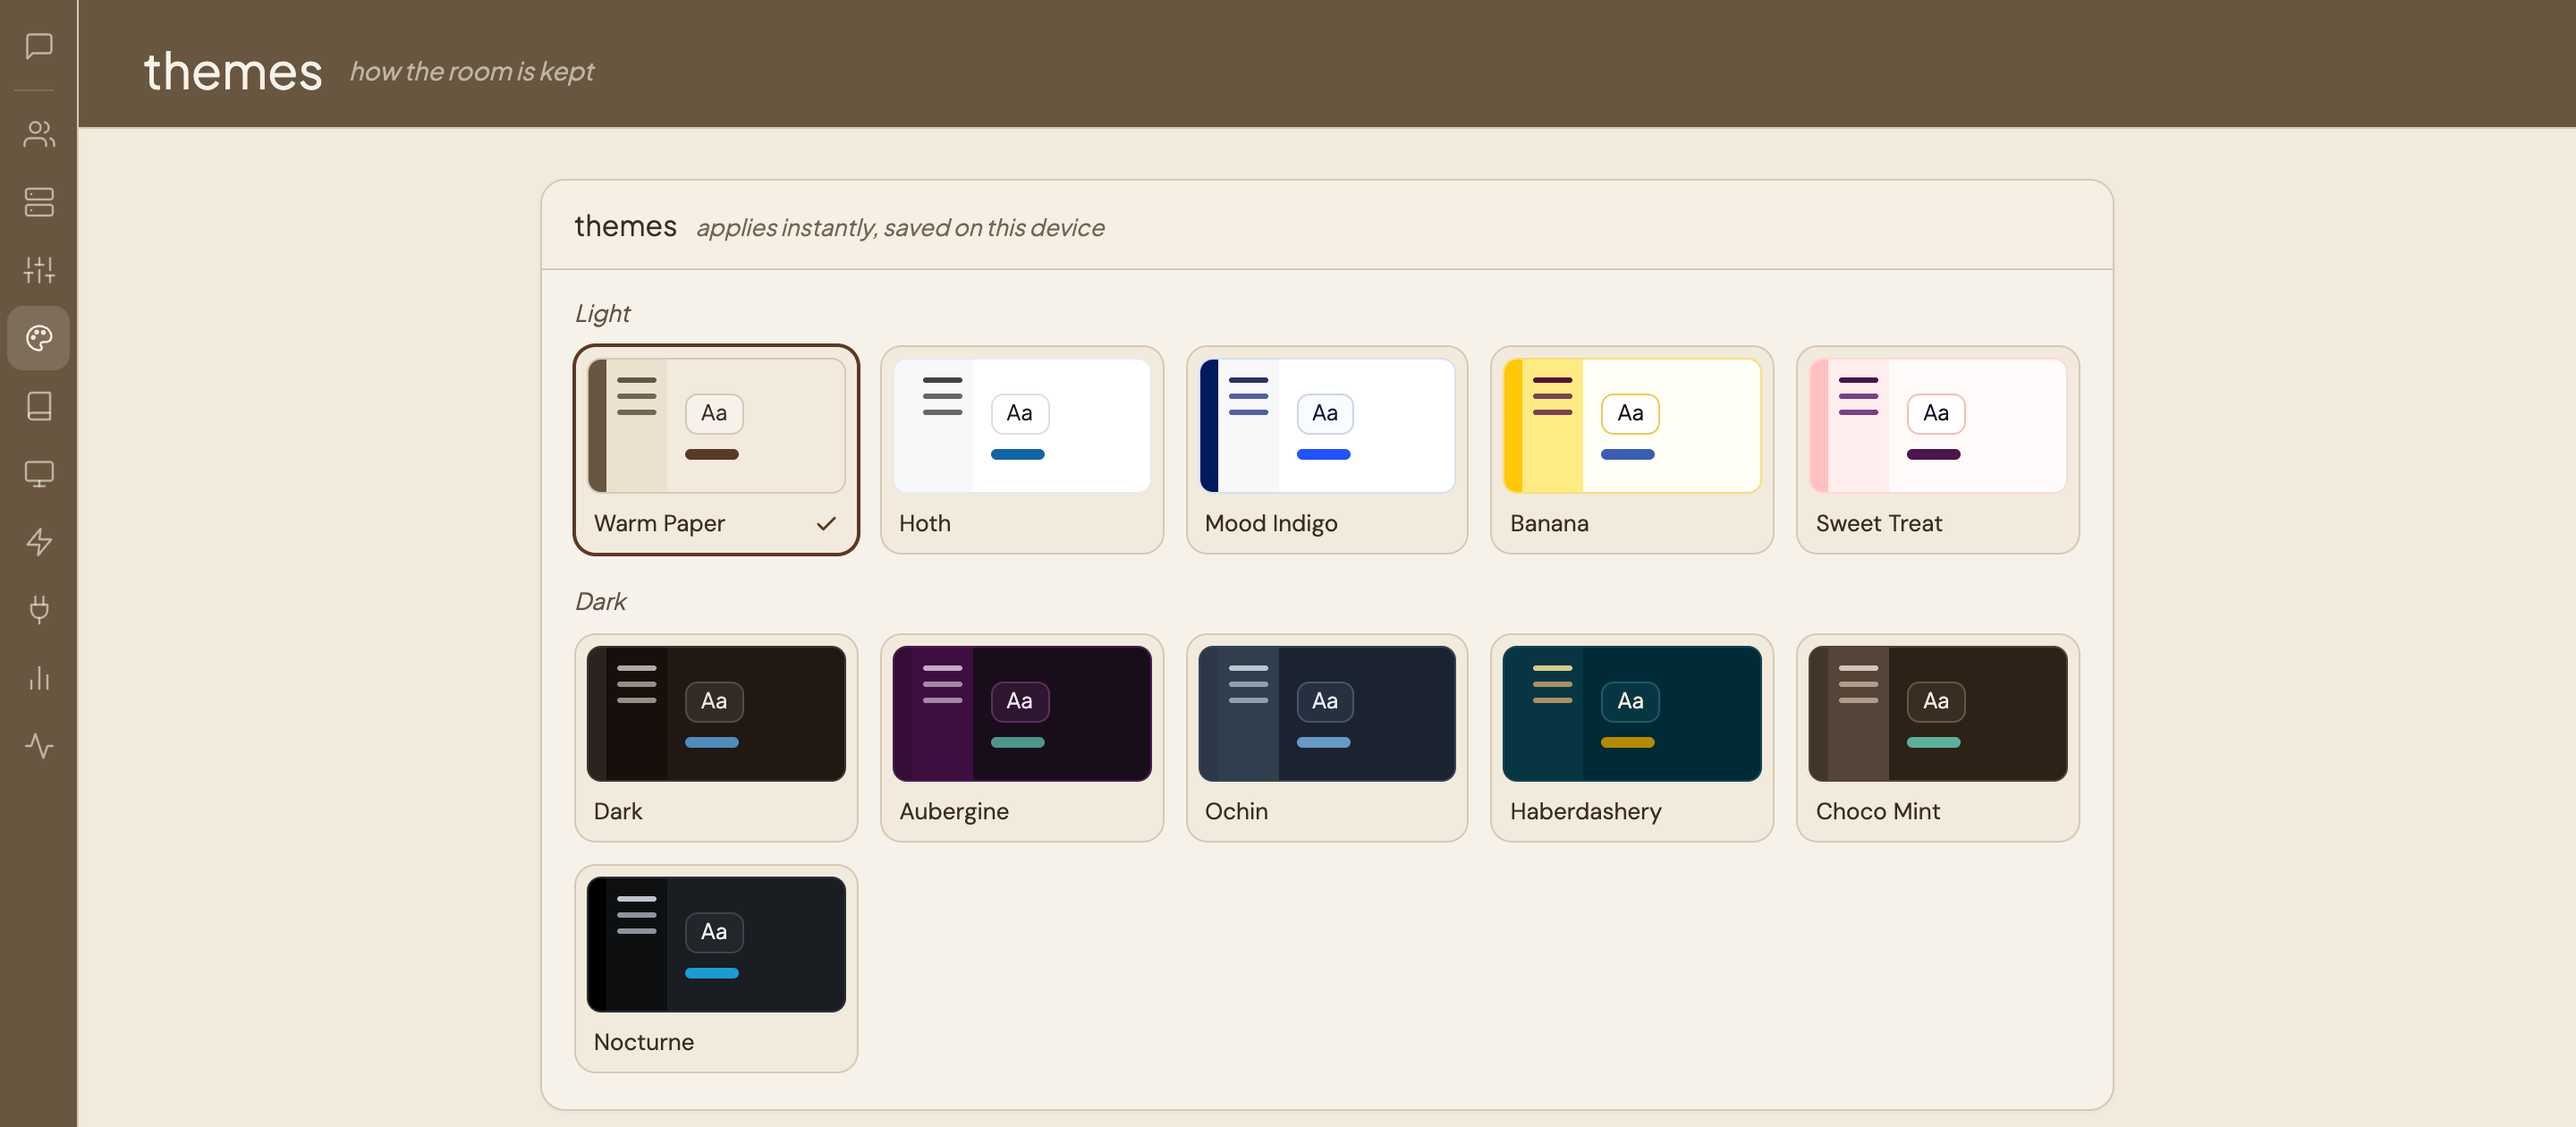
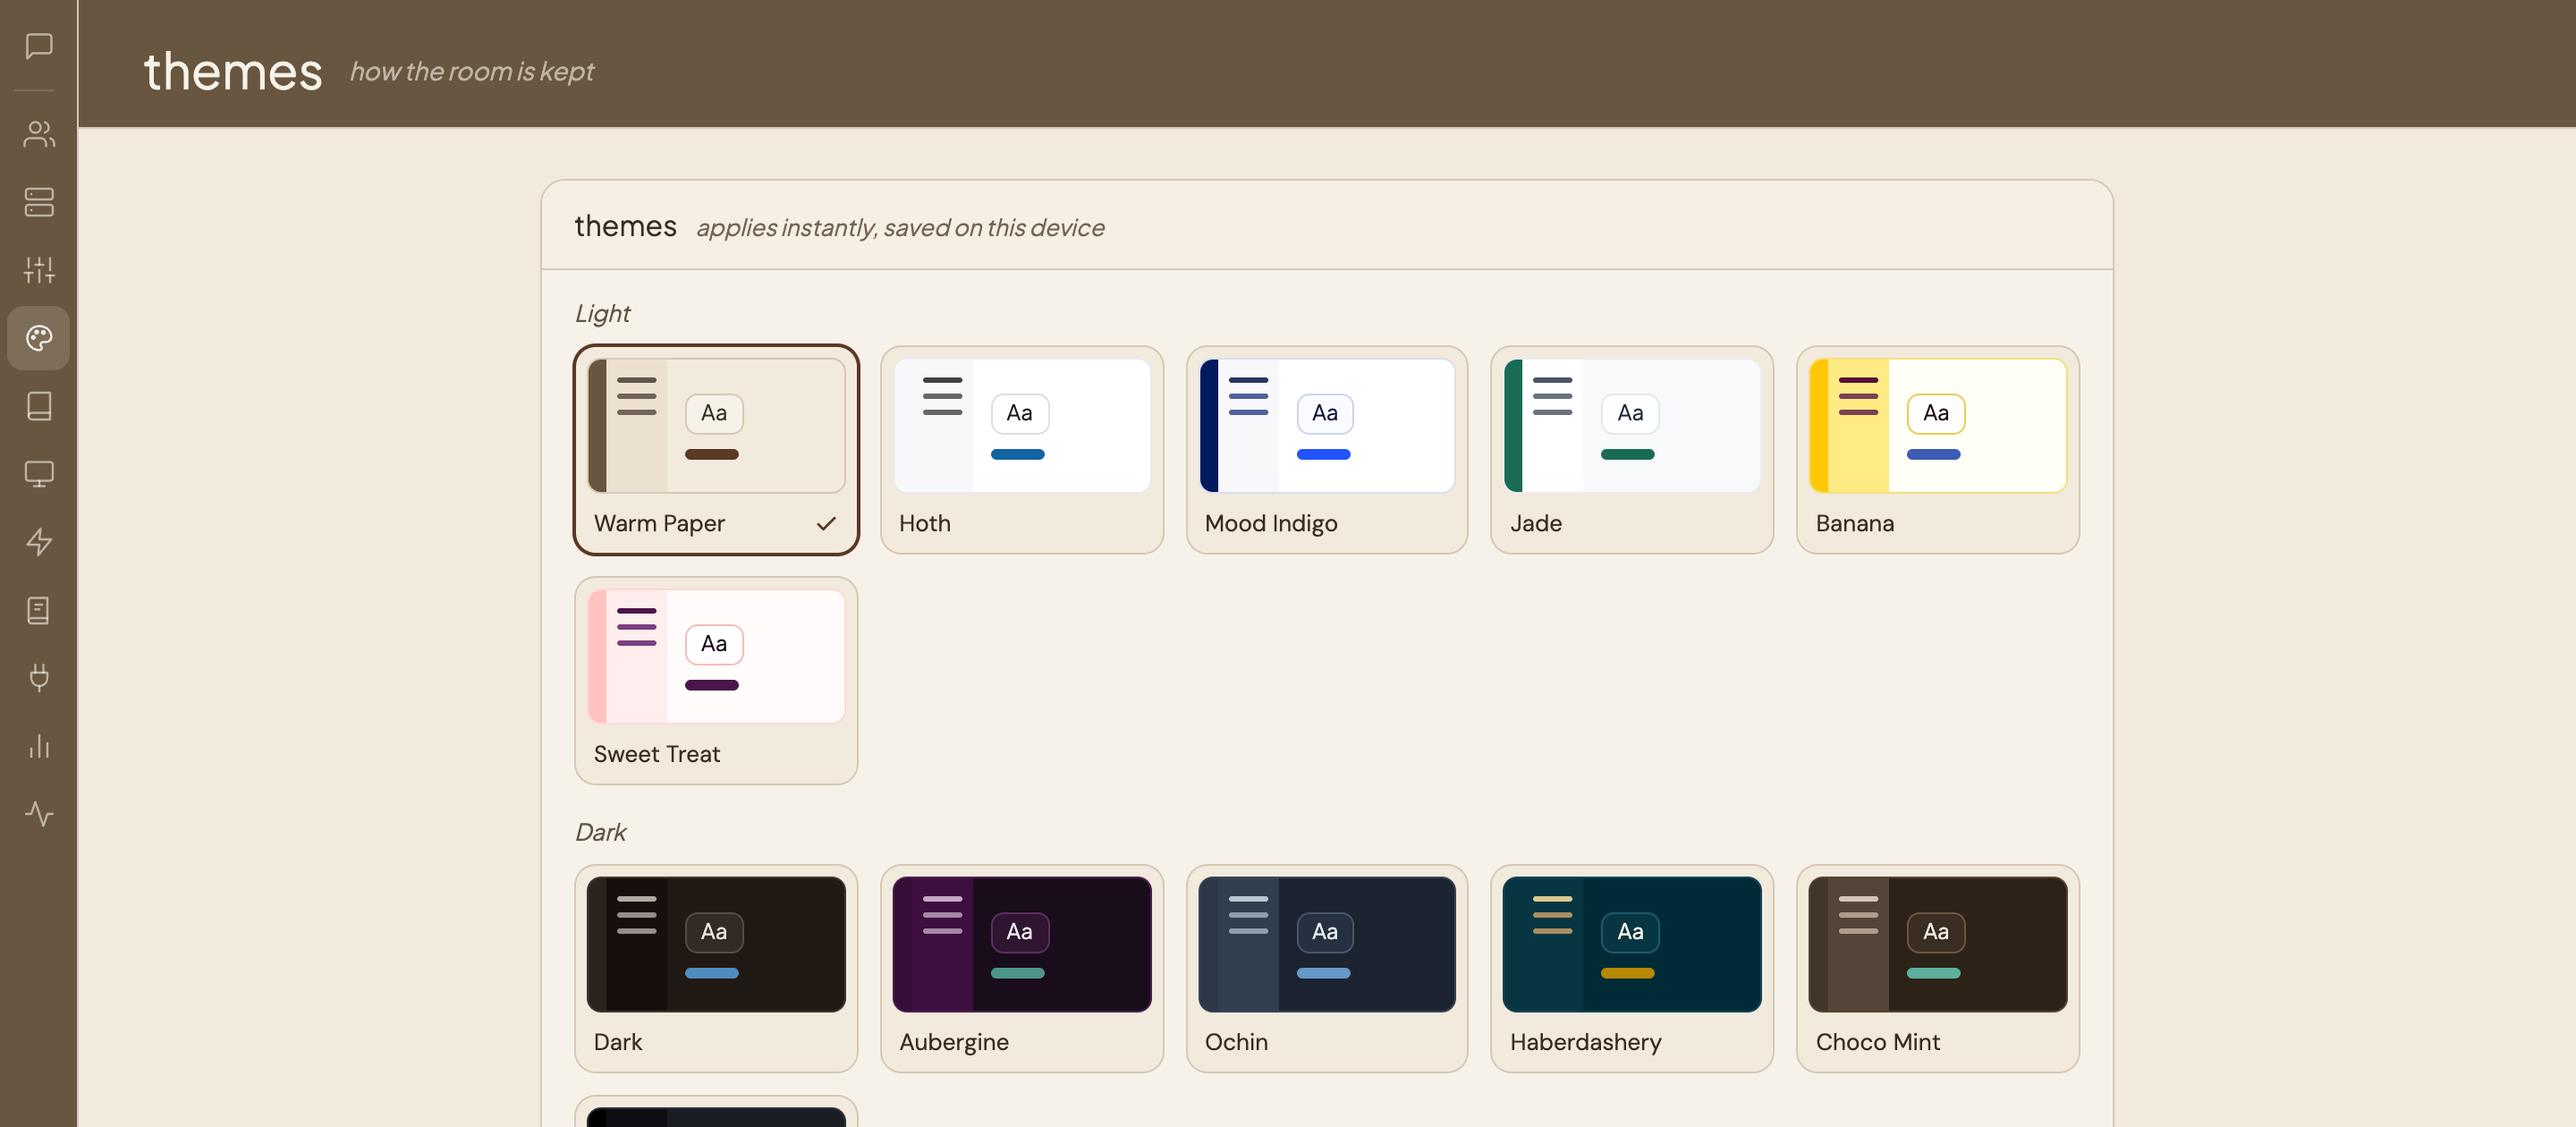
add jade light theme with themeable room highlight and primary button tokens (#241)
* add qiscus light theme from the qiscus omnichannel palette

* rename qiscus theme to jade; room row, dialog button and radio colors become theme tokens

* 0.90.0

---------

diff --git a/public/css/base.css b/public/css/base.css
@@ -118,8 +118,19 @@
   --h-msg:         "Plus Jakarta Sans", "DM Sans", system-ui, sans-serif;
 }
 
+/* Component tokens derived from the palette. Declared on every [data-theme]
+   element (not only :root) so a theme preview card resolves its own palette. */
+:root, [data-theme] {
+  --h-room-active-bg:  var(--h-surface);
+  --h-room-hover-bg:   color-mix(in srgb, var(--h-surface) 60%, transparent);
+  --h-btn-primary-bg:  var(--h-ink);
+  --h-btn-primary-ink: var(--h-bg);
+  --h-check-on:        var(--h-ink);
+}
+
 /* Light themes other than warm-paper: generic derived surfaces */
-[data-theme="hoth"], [data-theme="banana"], [data-theme="sweet-treat"], [data-theme="mood-indigo"] {
+[data-theme="hoth"], [data-theme="banana"], [data-theme="sweet-treat"], [data-theme="mood-indigo"],
+[data-theme="jade"] {
   color-scheme: light;
   --h-row-hover:       var(--h-hover);
   --h-thread-bg:       color-mix(in srgb, var(--h-ink) 3%, var(--h-bg));
@@ -285,6 +296,31 @@
   --h-header-ink:       #FFFFFF;
   --h-header-ink-faint: rgba(255,255,255,0.7);
   --h-pre-bg:           #0F1633;
+}
+
+[data-theme="jade"] {
+  --h-bg:               #F8F9FA;
+  --h-header-bg:        #1A6B55;
+  --h-sidebar-bg:       #FFFFFF;
+  --h-surface:          #FFFFFF;
+  --h-surface-hi:       #EEF7F4;
+  --h-hairline:         #E2E8F0;
+  --h-hair-soft:        #ECECEC;
+  --h-ink:              #1F2937;
+  --h-ink-mute:         #4B5563;
+  --h-ink-faint:        #6B7280;
+  --h-slip:             #D1ECE5;
+  --h-accent:           #1A6B55;
+  --h-link:             #1A6B55;
+  --h-header-ink:       #FFFFFF;
+  --h-header-ink-faint: rgba(255,255,255,0.72);
+  --h-pre-bg:           #0F2A24;
+
+  --h-room-active-bg:   var(--h-slip);
+  --h-room-hover-bg:    var(--h-surface-hi);
+  --h-btn-primary-bg:   var(--h-accent);
+  --h-btn-primary-ink:  #FFFFFF;
+  --h-check-on:         var(--h-accent);
 }
 
 [data-theme="aubergine"] {

diff --git a/public/css/chat.css b/public/css/chat.css
@@ -799,8 +799,8 @@
 .h-invite-actions { display: flex; gap: 8px; margin-top: 4px; }
 
 .h-btn-primary {
-  background: var(--h-ink);
-  color: var(--h-bg);
+  background: var(--h-btn-primary-bg);
+  color: var(--h-btn-primary-ink);
   border: none;
   padding: 8px 18px;
   border-radius: 999px;
@@ -1902,8 +1902,8 @@
 }
 
 .h-actor-check:has(input[type=radio]:checked)::before {
-  background: var(--h-ink);
-  border-color: var(--h-ink);
+  background: var(--h-check-on);
+  border-color: var(--h-check-on);
 }
 
 .h-actor-check:has(input[type=radio]:checked) {

diff --git a/public/css/layout.css b/public/css/layout.css
@@ -476,8 +476,8 @@ body.sidebar-collapsed #sidebar { display: none; }
   overflow: hidden;
   flex-shrink: 0;
 }
-.h-room-row:hover { background: color-mix(in srgb, var(--h-surface) 60%, transparent); }
-.h-room-row.active { background: var(--h-surface); }
+.h-room-row:hover { background: var(--h-room-hover-bg); }
+.h-room-row.active { background: var(--h-room-active-bg); }
 .h-room-row.swiped { background: transparent !important; }
 .h-room-content {
   padding: 9px 10px;

diff --git a/public/js/core.js b/public/js/core.js
@@ -279,6 +279,7 @@ const THEMES = [
   { id: 'warm-paper', label: 'Warm Paper', scheme: 'light' },
   { id: 'hoth', label: 'Hoth', scheme: 'light' },
   { id: 'mood-indigo', label: 'Mood Indigo', scheme: 'light' },
+  { id: 'jade', label: 'Jade', scheme: 'light' },
   { id: 'banana', label: 'Banana', scheme: 'light' },
   { id: 'sweet-treat', label: 'Sweet Treat', scheme: 'light' },
   { id: 'dark', label: 'Dark', scheme: 'dark' },

diff --git a/stoa.js b/stoa.js
@@ -220,7 +220,7 @@ var require_transcript_sanitizer = __commonJS({
 });
 
 // stoa.js
-var CLIENT_VERSION = "0.4.470";
+var CLIENT_VERSION = "0.4.472";
 var WebSocket = require("ws");
 var readline = require("readline");
 var fs = require("fs");

diff --git a/docs/guide-usage.ko.md b/docs/guide-usage.ko.md
@@ -1493,7 +1493,7 @@ Codex 인증 정보는 에이전트 머신에서만 읽히며 Stoa 서버로는 
 
 **Settings > Themes**（왼쪽 내비게이션, General 아래）를 열어 시각적 테마를 선택합니다. 테마는 두 그룹으로 나뉩니다：
 
-- **라이트** — Warm Paper（기본값）, Hoth, Mood Indigo, Banana, Sweet Treat
+- **라이트** — Warm Paper（기본값）, Hoth, Mood Indigo, Jade, Banana, Sweet Treat
 - **다크** — Dark, Aubergine, Ochin, Haberdashery, Choco Mint, Nocturne
 
 ![모든 라이트·다크 테마 옵션을 표시하는 테마 선택기](screenshots/themes.png)

diff --git a/docs/guide-usage.zh.md b/docs/guide-usage.zh.md
@@ -1493,7 +1493,7 @@ Codex 凭据仅在代理机器上读取，绝不发送至 Stoa 服务器。Claud
 
 打开 **Settings > Themes**（左侧导航，General 下方）选择视觉主题。主题分为两组：
 
-- **浅色** — Warm Paper（默认）、Hoth、Mood Indigo、Banana、Sweet Treat
+- **浅色** — Warm Paper（默认）、Hoth、Mood Indigo、Jade、Banana、Sweet Treat
 - **深色** — Dark、Aubergine、Ochin、Haberdashery、Choco Mint、Nocturne
 
 ![显示所有浅色和深色主题选项的主题选择器](screenshots/themes.png)

diff --git a/docs/guide-usage.id.md b/docs/guide-usage.id.md
@@ -1498,7 +1498,7 @@ Tab **Doctor** menampilkan informasi kesehatan instance Stoa kamu: integritas da
 
 Buka **Settings > Themes** (nav kiri, di bawah General) untuk memilih tema tampilan. Tema dikelompokkan dalam dua grup:
 
-- **Terang** — Warm Paper (default), Hoth, Mood Indigo, Banana, Sweet Treat
+- **Terang** — Warm Paper (default), Hoth, Mood Indigo, Jade, Banana, Sweet Treat
 - **Gelap** — Dark, Aubergine, Ochin, Haberdashery, Choco Mint, Nocturne
 
 ![Pemilih tema menampilkan semua opsi tema terang dan gelap](screenshots/themes.png)

diff --git a/docs/guide-usage.en.md b/docs/guide-usage.en.md
@@ -1497,7 +1497,7 @@ The **Doctor** tab shows health information about your Stoa instance: database i
 
 Open **Settings > Themes** (left nav, below General) to choose the app's visual theme. Themes are arranged in two groups:
 
-- **Light** — Warm Paper (default), Hoth, Mood Indigo, Banana, Sweet Treat
+- **Light** — Warm Paper (default), Hoth, Mood Indigo, Jade, Banana, Sweet Treat
 - **Dark** — Dark, Aubergine, Ochin, Haberdashery, Choco Mint, Nocturne
 
 ![Theme picker showing all light and dark theme options](screenshots/themes.png)

diff --git a/.claude/knowledge/frontend-structure.md b/.claude/knowledge/frontend-structure.md
@@ -36,6 +36,7 @@ Themes are CSS token blocks defined in `public/css/base.css` under `[data-theme=
 | `warm-paper` | Warm Paper | light (default) |
 | `hoth` | Hoth | light |
 | `mood-indigo` | Mood Indigo | light |
+| `jade` | Jade | light |
 | `banana` | Banana | light |
 | `sweet-treat` | Sweet Treat | light |
 | `dark` | Dark | dark |
